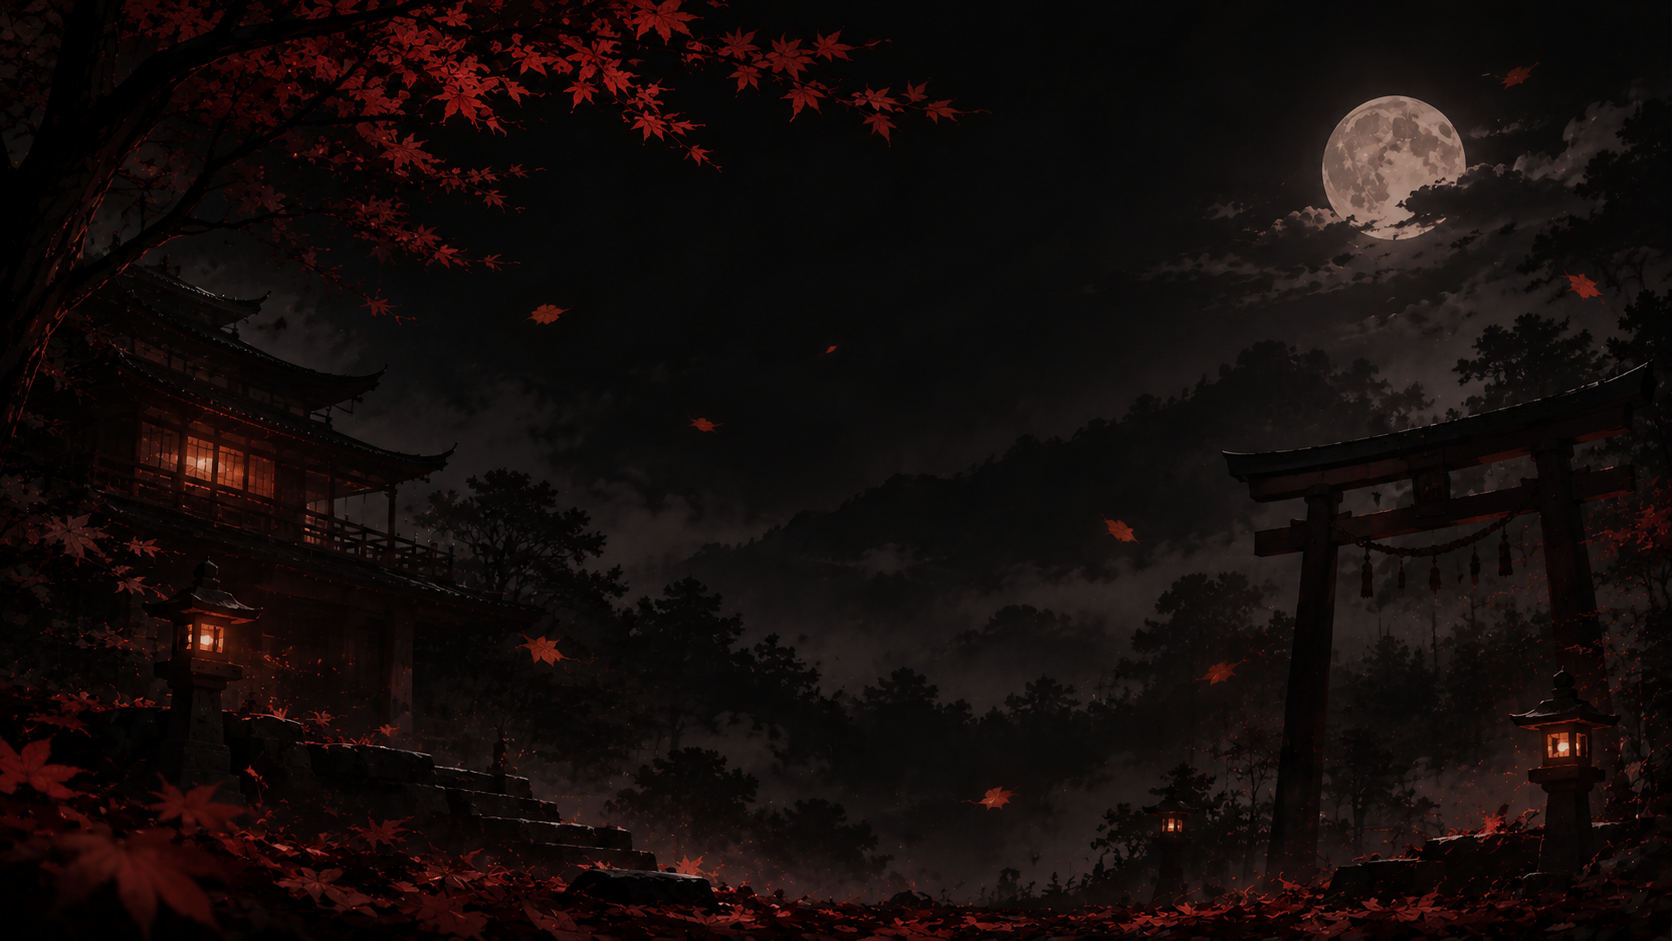
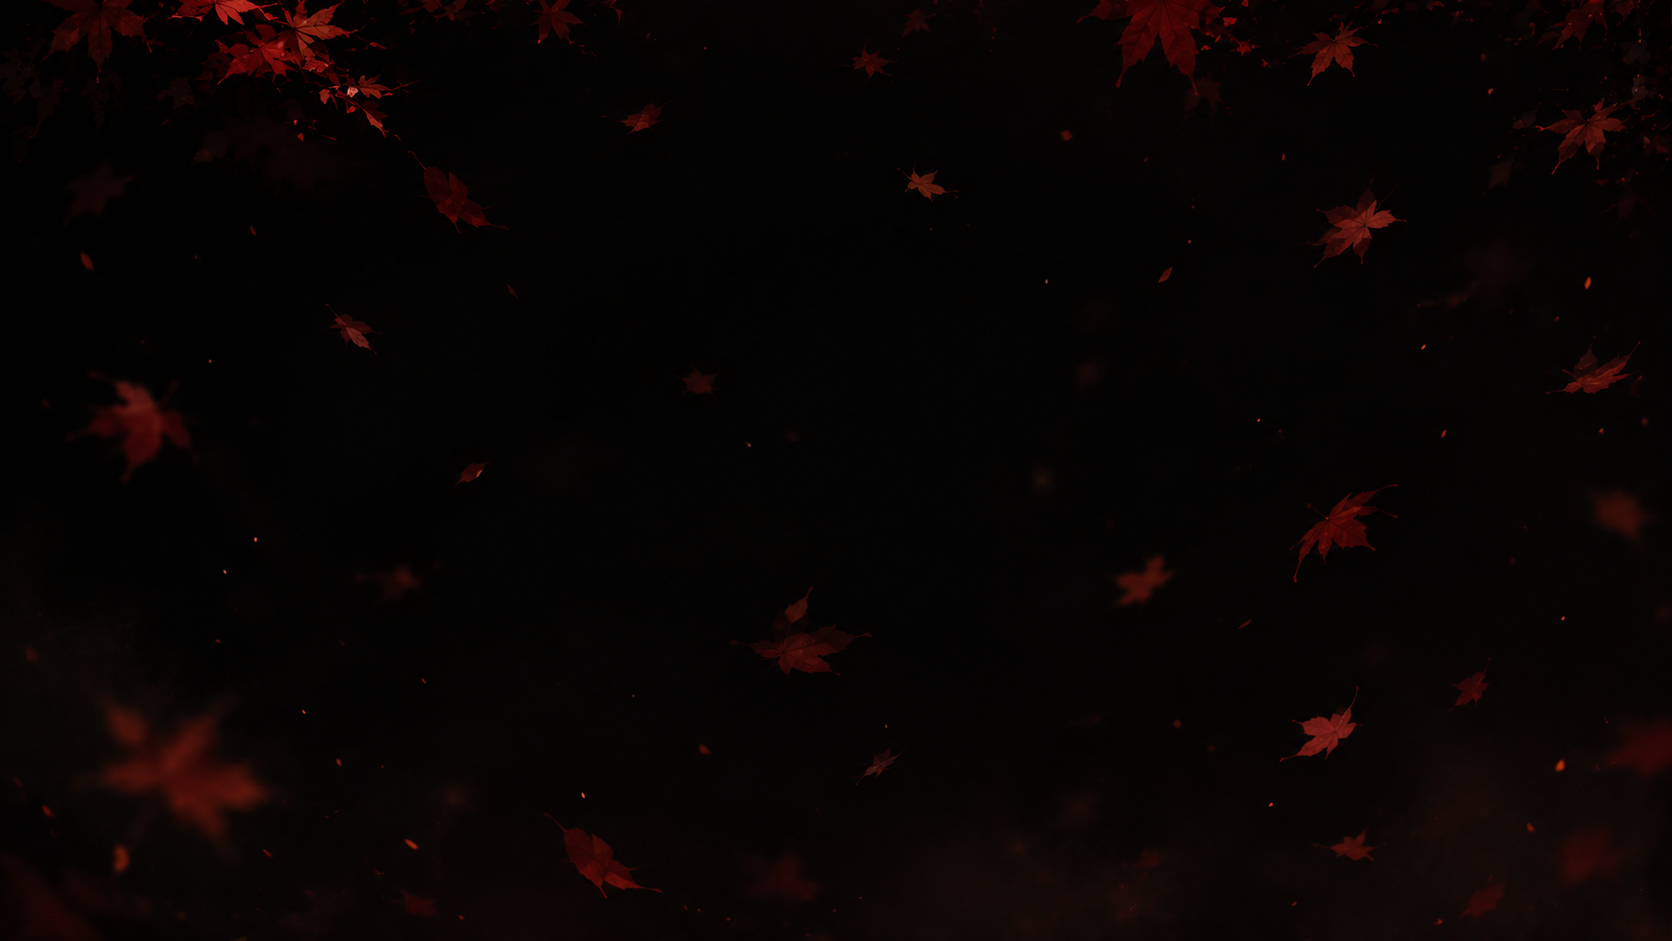
projects to contact transition

diff --git a/src/components/ProjectsSection.tsx b/src/components/ProjectsSection.tsx
@@ -61,7 +61,7 @@ export const ProjectsSection = () => {
   return (
     <section
       ref={sectionRef}
-      className="relative min-h-screen pt-8 md:pt-12 lg:pt-16 pb-16 md:pb-20 lg:pb-24"
+      className="relative min-h-screen pt-8 md:pt-12 lg:pt-16 pb-0"
       style={{ 
         zIndex: 1,
       }}
@@ -80,7 +80,7 @@ export const ProjectsSection = () => {
         <div 
           className="absolute inset-0"
           style={{
-            background: 'linear-gradient(to bottom, rgba(8,8,8,0.92) 0%, rgba(8,8,8,0.85) 30%, rgba(8,8,8,0.75) 60%, rgba(8,8,8,0.65) 100%)',
+            background: 'linear-gradient(to bottom, rgba(8,8,8,0.92) 0%, rgba(8,8,8,0.85) 30%, rgba(8,8,8,0.75) 60%, rgba(8,8,8,0.65) 85%, rgba(8,8,8,0.5) 100%)',
           }}
         />
         
@@ -91,17 +91,9 @@ export const ProjectsSection = () => {
             background: 'linear-gradient(to bottom, #080808 0%, transparent 100%)',
           }}
         />
-        
-        {/* Smooth bottom edge blend */}
-        <div 
-          className="absolute bottom-0 left-0 right-0 h-32"
-          style={{
-            background: 'linear-gradient(to top, #080808 0%, transparent 100%)',
-          }}
-        />
       </div>
 
-      <div className="container px-4 md:px-8 lg:px-16 relative z-10 max-w-screen-xl mx-auto">
+      <div className="container px-4 md:px-8 lg:px-16 relative z-10 max-w-screen-xl mx-auto pb-16 md:pb-20 lg:pb-24">
         {/* Section header */}
         <div className="projects-header mb-8 md:mb-10 lg:mb-12">
           <motion.span
@@ -131,12 +123,26 @@ export const ProjectsSection = () => {
         </div>
 
         {/* 3-card grid */}
-        <div className="grid grid-cols-1 md:grid-cols-2 xl:grid-cols-3 gap-6 md:gap-8 pb-8">
+        <div className="grid grid-cols-1 md:grid-cols-2 xl:grid-cols-3 gap-6 md:gap-8">
           {projects.map((project, index) => (
             <ProjectCard key={project.id} project={project} index={index} isInView={isInView} />
           ))}
         </div>
       </div>
+
+      {/* Extended leaf heap transition zone - allows leaves to flow into Contact section */}
+      <div 
+        className="absolute bottom-0 left-0 right-0 pointer-events-none z-0"
+        style={{
+          height: '40vh',
+          backgroundImage: `url(${heapBg})`,
+          backgroundSize: 'cover',
+          backgroundPosition: 'center bottom',
+          backgroundRepeat: 'no-repeat',
+          maskImage: 'linear-gradient(to bottom, transparent 0%, rgba(0,0,0,0.3) 15%, rgba(0,0,0,0.6) 40%, rgba(0,0,0,0.8) 70%, rgba(0,0,0,0) 100%)',
+          WebkitMaskImage: 'linear-gradient(to bottom, transparent 0%, rgba(0,0,0,0.3) 15%, rgba(0,0,0,0.6) 40%, rgba(0,0,0,0.8) 70%, rgba(0,0,0,0) 100%)',
+        }}
+      />
     </section>
   );
 };
